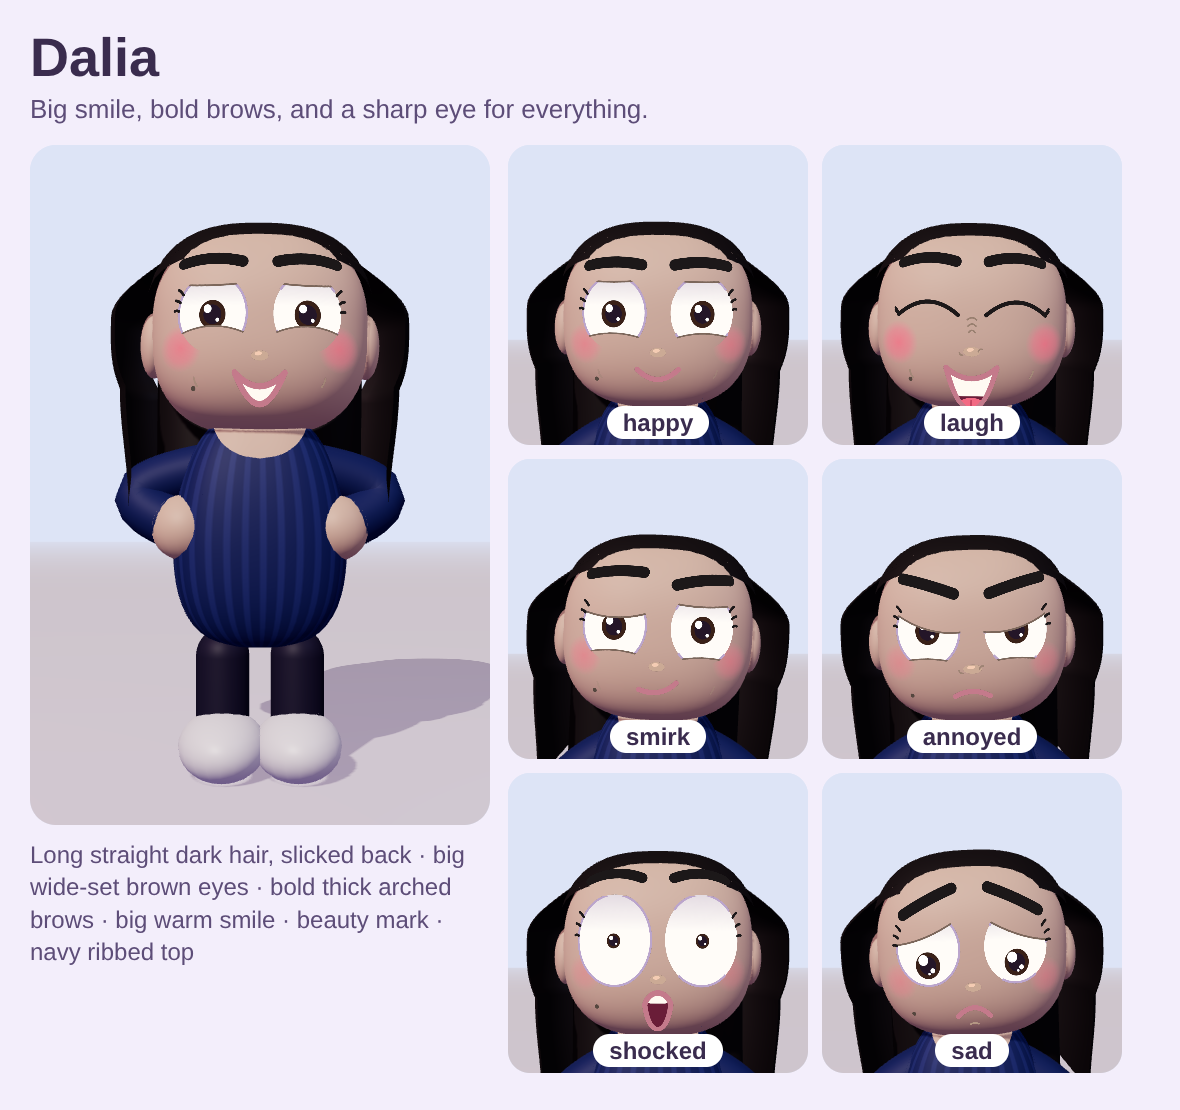
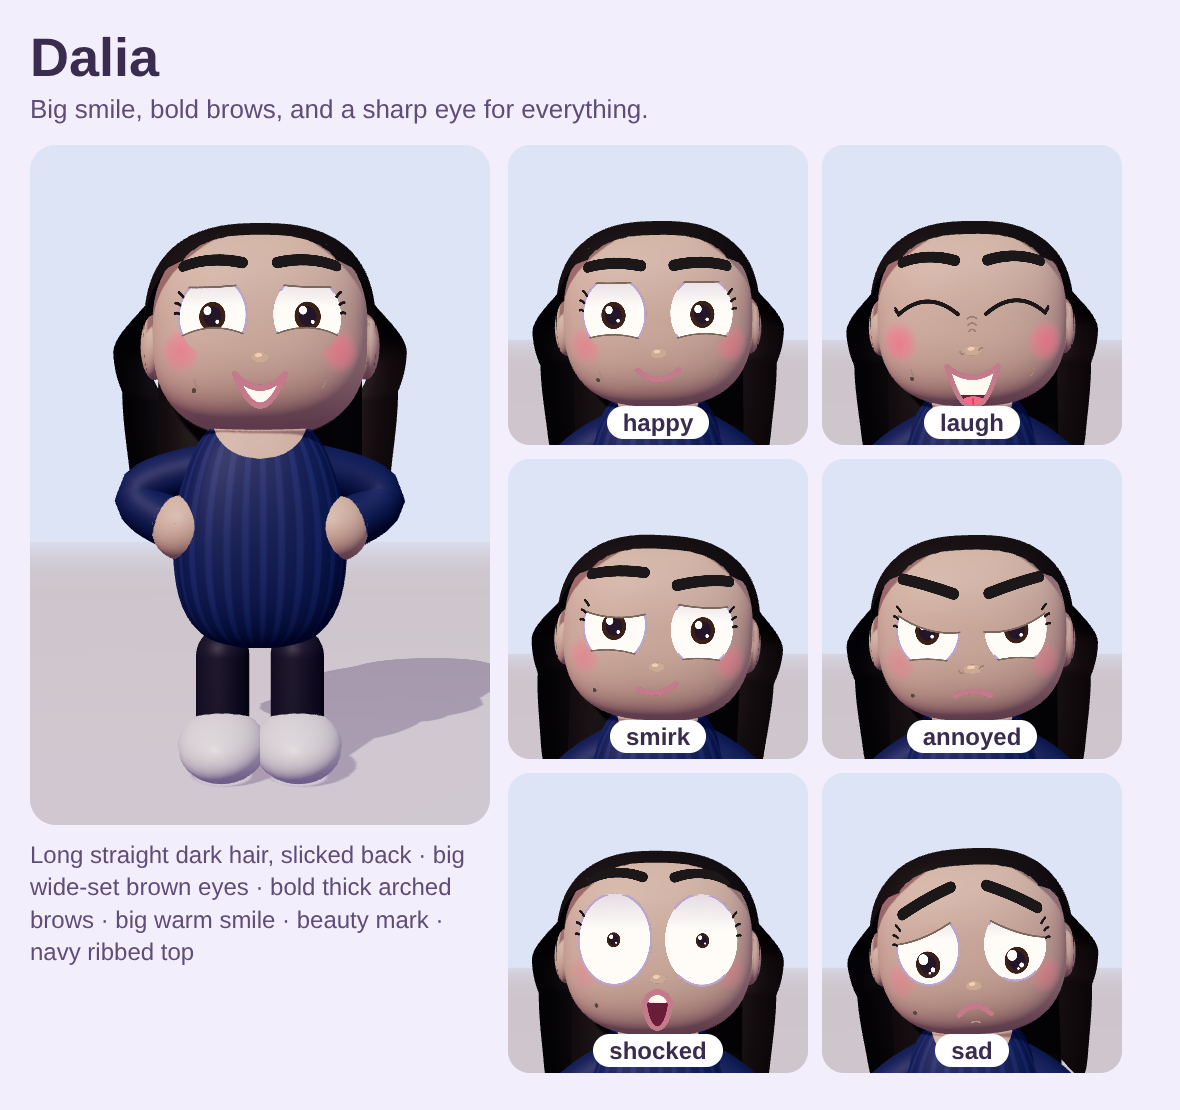
Dalia: hair wraps the sides and back of the head with a curved hairline, tucked behind the ears (no bare patch beside the ear)
Claude-Session: https://claude.ai/code/session_01Kz45xjeG9hM21H2JXSeFXF

diff --git a/characters/expressive/body.js b/characters/expressive/body.js
@@ -170,10 +170,26 @@ export function createExpressiveKit(THREE, RoundedBoxGeometry, kit) {
       if (st === 'bangs') hb(rx * 1.7, 0.34, 0.55, 0, ry * 0.76, rz * 0.7, 0.16);
     }
     else if (st === 'long') {
-      cap(); if (O.hairFlow) { const bk = hb(rx * 2.0, 3.5, 1.3, 0, -1.25, -rz * 0.62, 0.62); bk.scale.set(1, 1, 1); } else hb(rx * 2.15, 3.3, 0.9, 0, -1.4, -rz * 0.7, 0.45);
+      cap();
+      if (O.hairFlow) {   // option: the hair also wraps the sides and back of the head, stopping just in front of the ears (the ears stay visible), so no bare head shows beside the ears
+        {   // one smooth hair surface over the sides and back of the head. Its front edge sweeps in a curve: far forward at the forehead (b = 56 deg), back to just in front of the ear (b = 10 deg).
+          const R = 44, C = 90, hn = HD.n, pos = [], idx = [], sm = t => { t = Math.max(0, Math.min(1, t)); return t * t * (3 - 2 * t); };
+          for (let r = 0; r < R; r++) {
+            const u = r / (R - 1), th = (30 + u * 78) * D2R, b = lerp(58, 10, sm((u - 0.05) / 0.9)) * D2R, p0 = Math.PI - b, p1 = 2 * Math.PI + b;
+            for (let c = 0; c < C; c++) {
+              const ph = lerp(p0, p1, c / (C - 1)), x = -Math.cos(ph) * Math.sin(th), y = Math.cos(th), z = Math.sin(ph) * Math.sin(th), k = 1 / Math.pow(Math.pow(Math.abs(x), hn) + Math.pow(Math.abs(y), hn) + Math.pow(Math.abs(z), hn), 1 / hn);
+              pos.push(x * k * rx * 1.075, y * k * ry * 1.075, z * k * rz * 1.075);
+            }
+          }
+          for (let r = 0; r < R - 1; r++) for (let c = 0; c < C - 1; c++) { const a0 = r * C + c, b0 = a0 + 1, c0 = a0 + C, d0 = c0 + 1; idx.push(a0, c0, b0, b0, c0, d0); }
+          const g = new THREE.BufferGeometry(); g.setAttribute('position', new THREE.Float32BufferAttribute(pos, 3)); g.setIndex(idx); g.computeVertexNormals();
+          const pm = hmat.clone(); pm.side = THREE.DoubleSide; const patch = new THREE.Mesh(g, pm); patch.castShadow = true; head.add(patch);
+        }
+      }
+      if (O.hairFlow) { const bk = hb(rx * 2.0, 3.5, 1.3, 0, -1.25, -rz * 0.62, 0.62); bk.scale.set(1, 1, 1); } else hb(rx * 2.15, 3.3, 0.9, 0, -1.4, -rz * 0.7, 0.45);
       for (const s of [-1, 1]) {
         if (O.hairFlow) {   // option: ONE continuous curtain of hair per side. It starts inside the cap, hugs the side of the head, then falls straight down (no separate pieces, no ponytail look).
-          const R = 46, C = 18, y0 = ry * 0.82, yb = -2.35, zf = 0.62, zb = -rz * 0.8, hn = HD.n, pos = [], idx = [], sm = t => { t = Math.max(0, Math.min(1, t)); return t * t * (3 - 2 * t); };
+          const R = 46, C = 18, y0 = ry * 0.5, yb = -2.35, zf = -0.02, zb = -rz * 0.8, hn = HD.n, pos = [], idx = [], sm = t => { t = Math.max(0, Math.min(1, t)); return t * t * (3 - 2 * t); };
           const xh = (y, z) => rx * Math.pow(Math.max(0.0001, 1 - Math.pow(Math.abs(y / ry), hn) - Math.pow(Math.abs(z / rz), hn)), 1 / hn);
           for (let r = 0; r < R; r++) {
             const u = r / (R - 1), y = lerp(y0, yb, u), yy = Math.max(y, -ry * 0.55), off = 0.5 * sm((y0 - y) / 0.9) + 0.04, zc = (zf + zb) / 2, sh = u > 0.82 ? Math.sqrt(Math.max(0.02, 1 - Math.pow((u - 0.82) / 0.18, 2))) : 1;
